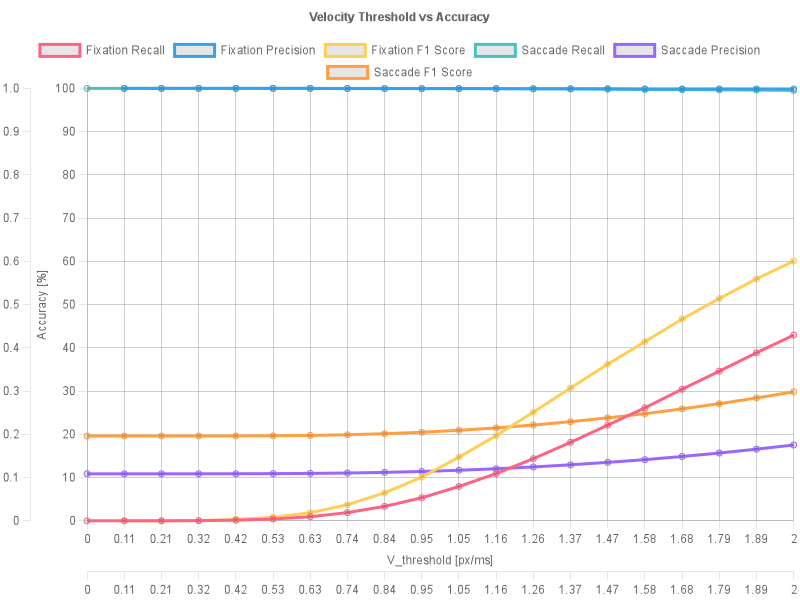
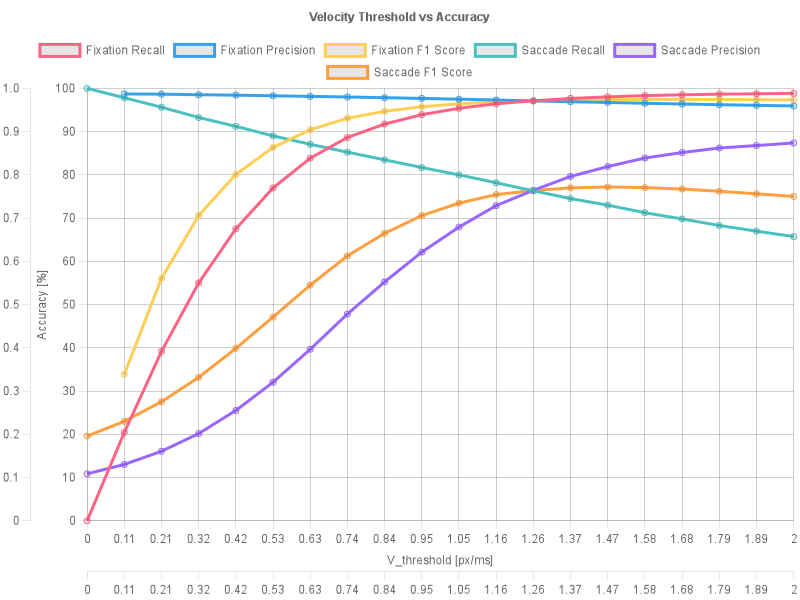
Final updates

diff --git a/js/rt_idt_single.js b/js/rt_idt_single.js
@@ -262,14 +262,14 @@ function statisticsIDT(data, y_input) {
             plugins: {
                 title: {
                     display: true,
-                    text: 'Velocity Threshold vs Accuracy'
+                    text: 'Dispersion Threshold vs Accuracy'
                 }
             },
             scales: {
                 xAxes: {
                     title: {
                         display: true,
-                        text: 'V_threshold [px/ms]'
+                        text: 'D_threshold [px/ms]'
                     }
                 },
                 yAxes: {
@@ -287,8 +287,8 @@ function statisticsIDT(data, y_input) {
     new Chart(ctx, config);
 
     const buffer = canvas.toBuffer('image/png');
-    fs.writeFileSync('IDT.png', buffer);
-    console.log('Chart saved as IDT.png');
+    fs.writeFileSync('IDT1.png', buffer);
+    console.log('Chart saved as IDT1.png');
 }
 
 readCSV("test.csv")

diff --git a/js/rt_idt_algo.js b/js/rt_idt_algo.js
@@ -22,7 +22,7 @@ export class RT_IDT_ALGO {
 
         let D = Math.abs(cur_d);
         // console.log('curd', cur_d);
-        console.log('D', D);
+        // console.log('D', D);
         if (D < disp_thresh) {
             if (this.fix == 1) {
                 this.elapsed_times.push(elapsed_time);
@@ -40,7 +40,8 @@ export class RT_IDT_ALGO {
                 if (dur < min_dur) {
                     return null;
                 }
-                let fixation = { x: pt[0], y: pt[1], duration: dur, end_time: elapsed_time };
+                let fixation = { x: parseFloat(pt.x), y: parseFloat(pt.y), duration: dur, end_time: elapsed_time };
+                console.log('Dis', fixation);
                 return fixation;
             } else {
                 return null;

diff --git a/demo_app/src/ScanPathPlot.jsx b/demo_app/src/ScanPathPlot.jsx
@@ -74,9 +74,9 @@ const ScanPathPlot = () => {
 
             i = 0;
             const fixationDataIDT = parsedData.map((point) => {
-              const fixation1 = algo1.rt_idt2(point, i/50, 8, 0.05);  
+              const fixation1 = algo1.rt_idt2(point, i/50, 1.5, 0.05);  
               ++i;
-              console.log('point', point);
+              // console.log('point', point);
               return fixation1 ? { x: point.x, y: point.y } : null;   // Only return if it's a fixation
             }).filter(point => point !== null);
             

diff --git a/js/rt_ivt_algo.js b/js/rt_ivt_algo.js
@@ -42,6 +42,7 @@ export class RT_IVT_ALGO {
                     return null;
                 }
                 let fixation = { x: x, y: y, duration: dur, end_time: elapsed_time };
+                console.log('Vel', fixation);
                 return fixation;
             } else {
                 return null;
